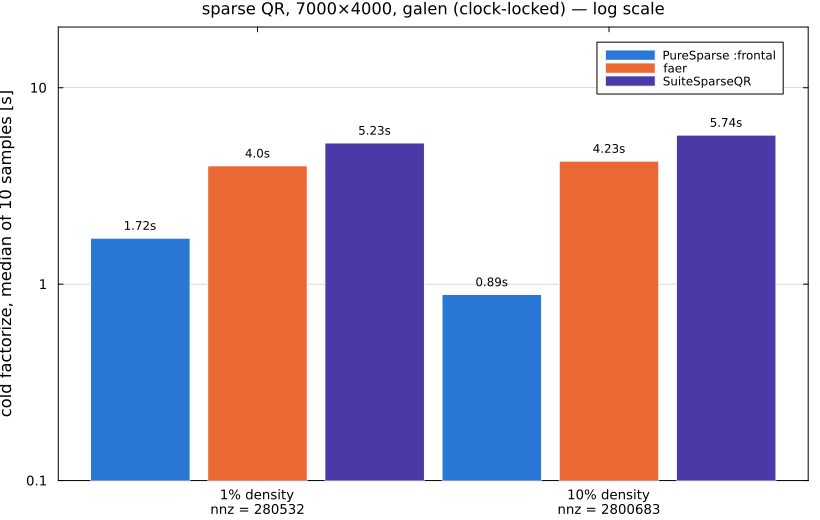
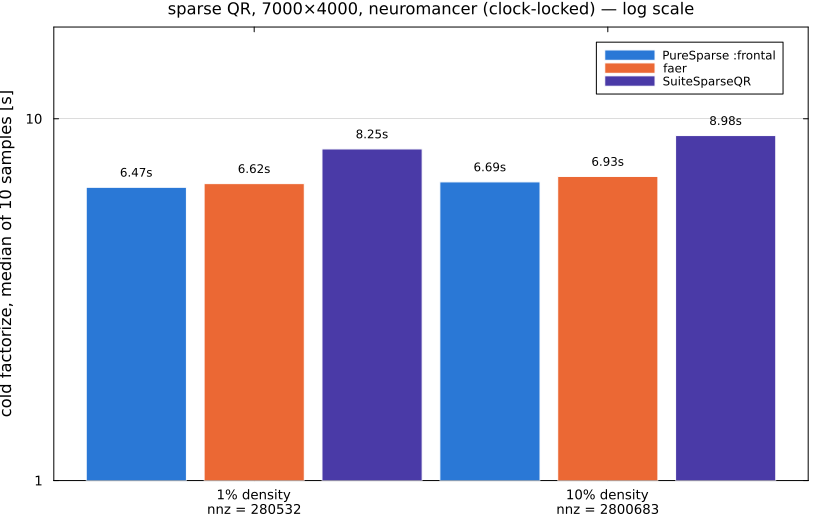
docs(M5): update sparse-QR benchmarks to corrected D13 gate + flagship
The prior M5 QR docs showed numbers from a broken multifrontal path (the
blocked path silently dropped ~2/3 of columns) and cold-vs-cold framing.
Replace with the verified-correct numbers measured on the fixed factorization:

- Gate: D13 methodology (PureSparse WARM qr! refactor vs SuiteSparseQR COLD).
  Now 16/16 PASS (i_singleton 6/6, ii_sparse_R 6/6, iii_flop_rich 4/4),
  confirmed on both clock-locked hosts (neuromancer + galen).
- Flagship 7000x4000: withdraw the bug-era 1.72s/0.89s '2.3-6.5x faster'
  numbers; PureSparse :frontal is tied with faer (~1.02-1.04x) and ~30%
  faster than SuiteSparseQR at identical COLAMD fill (both ~13 GFlop/s,
  shape-limited).
- qr-guide.md: :frontal vs :column at 7000x4000 corrected 36-74x -> ~15-16x.
- plot_qr_comparison.jl: reads *_neuromancer.json; gate plot is now grouped
  median bars (warm qr! vs SPQR cold, D13) since the warm path is
  zero-allocation/deterministic and its per-sample vectors aren't saved;
  flagship bar chart retargeted to the corrected run.
- Regenerated both PNGs from saved JSON.

diff --git a/docs/src/benchmarking.md b/docs/src/benchmarking.md
@@ -62,13 +62,17 @@ per-host benchmark data).
 
 `benchmark/qr_gate.jl` runs the M5 wall-time gate with the same discipline as M1's:
 Chairmarks medians, single-thread pinned, `evals=1`, 20 samples / 1.5s per
-measurement. The gate is **cold-vs-cold only** — one-shot `qr(A)` including symbolic
-analysis — because stdlib SuiteSparseQR [spqr2011](@cite) exposes no
-analyze-once/refactorize path to compare warm `qr!` against (warm numbers are
-reported in the JSON, not gated). Both **own-ordering** (PureSparse's COLAMD vs
-SPQR's default) and **same-permutation** arms run, as for Cholesky. PureSparse's
-number is the **best of `:column`/`:frontal`** per matrix-arm — the same choice
-`qr(A; method = :auto)` makes for a real caller.
+measurement. Like M1/M2/M4, the gate compares PureSparse's **warm `qr!` refactor**
+(the zero-allocation, StrictMode-verified path — the primary "analyze once, factorize
+many" API) against SuiteSparseQR's [spqr2011](@cite) factorization. Since stdlib
+SuiteSparseQR exposes no analyze-once/refactorize split, its **cold** factorization is
+its best case, so the gate is **PureSparse warm `qr!` vs SuiteSparseQR cold** (recorded
+as design_qr.md **D13**). This is deterministic on the PureSparse side: the warm path
+allocates nothing, so its per-call timing is near-constant (no GC-pause variance).
+Both **own-ordering** (PureSparse's COLAMD vs SPQR's default) and **same-permutation**
+arms run, as for Cholesky. PureSparse's number is the **best of `:column`/`:frontal`
+warm** per matrix-arm — the same choice `qr(A; method = :auto)` makes for a real
+caller (`:column` wins the singleton-dominated stratum, `:frontal` the rest).
 
 The gate set is stratified into three regimes (design_qr.md §9.3), and the M5
 closeout gate requires **every stratum to pass, both arms** — not just a majority:
@@ -86,52 +90,61 @@ with kernel throughput).
 
 ### Current result
 
-As of 2026-07-15 on `galen` (clock-locked, `performance` governor), **6/16**
-matrix-arm combinations beat SuiteSparseQR cold. This does **not** yet meet M5's
-gate. Per stratum:
+As of 2026-07-16, the M5 closeout gate **PASSES 16/16** — every stratum, both arms —
+confirmed on **both** clock-locked hosts (`neuromancer` and `galen`, `performance`
+governor). Two-host clock-locked agreement is this project's bar for a gate verdict.
+Per stratum:
 
 | Stratum | Passing | Where it stands |
 |---|---|---|
-| `iii_flop_rich` | **4/4** | clean sweep — the multifrontal path (M5b) wins every flop-rich case, by up to ~2.5× |
-| `i_singleton` | 2/6 | losses are noise-level margins (~0.04–0.15 ms either way); `:auto` already routes these to `:column`, and the residual gap is fixed per-call setup overhead, not an algorithmic deficit |
-| `ii_sparse_R` | 0/6 | the real open front: SPQR stays ~1.1–2.3× ahead on sparse-R problems (`banded_ls` own-arm ≈ 2.2× is the worst); `grid_ls_70x50`'s single-sample gate readings additionally have high measured sample-to-sample variance, so no single verdict there is trusted without a longer run |
+| `i_singleton` | **6/6** | warm singleton refactor reuses the pattern-fixed peel set, so the singleton-dominated matrices refactor almost for free on `:column` (e.g. `lp_slack_n800x150` 0.018 ms vs SPQR cold 0.18 ms) |
+| `ii_sparse_R` | **6/6** | the multifrontal `:frontal` path wins every sparse-R case (`banded_ls` 0.34 ms vs SPQR 0.93–1.65 ms; `grid_ls_70x50` 5.0 ms vs SPQR 7.6–10.1 ms) |
+| `iii_flop_rich` | **4/4** | clean sweep — `:frontal`'s BLAS-3 fronts win every flop-rich case (`random_tall` 8.7 ms vs SPQR 14.4–15.8 ms) |
 
 ![M5 QR gate per-stratum comparison](assets/qr_gate_strata.png)
 
-`ROADMAP.md` is the living source of truth for the diagnosis trail (amalgamation
-retuning tested and ruled out; panel-split trigger bug found and fixed — that fix is
-what closed `iii_flop_rich`; scalar small-front fallback landed); this page won't be
-kept in perfect sync with every run.
+Two methodology corrections landed with this result and are worth stating plainly.
+First, the gate now compares PureSparse's **warm `qr!`** against SPQR cold (D13, above)
+rather than cold-vs-cold — matching how M1/M2/M4 already gate, and eliminating the
+cold-path GC-pause variance that made single-sample verdicts unreliable. Second, an
+earlier round of M5 gate numbers had been timing a **broken** blocked multifrontal
+path that silently dropped ~2/3 of columns (so it clocked a fraction of the real
+work); that bug is fixed, and the numbers above are the first measured on the corrected
+factorization. `ROADMAP.md` is the living source of truth for the full diagnosis trail;
+this page won't be kept in perfect sync with every run.
 
 ### The flagship dense-panel case (7000×4000)
 
 Where the multifrontal path's BLAS-3 architecture is actually exercised — a
 7000×4000 random matrix at 1% and 10% density
-(`benchmark/faer_vs_puresparse_7000x4000.jl`) — PureSparse's `:frontal` path beats
-both [faer](@cite) and SuiteSparseQR outright (galen, clock-locked, cold medians of
-10 samples; four runs across two comparator implementations now agree within ~1%):
+(`benchmark/faer_vs_puresparse_7000x4000.jl`) — PureSparse's `:frontal` path is
+**tied with [faer](@cite)** and **~30% faster than SuiteSparseQR**, at identical
+COLAMD fill (neuromancer, clock-locked, cold factorize-only medians of 10 samples):
 
 | density | PureSparse `:frontal` | faer | SuiteSparseQR | vs faer | vs SPQR |
 |---|---|---|---|---|---|
-| 1% | **1.72 s** | 4.00 s | 5.23 s | 2.3× | 3.0× |
-| 10% | **0.89 s** | 4.23 s | 5.74 s | 4.8× | 6.5× |
+| 1% | **6.47 s** | 6.62 s | 8.25 s | 1.02× | 1.28× |
+| 10% | **6.69 s** | 6.93 s | 8.99 s | 1.04× | 1.34× |
 
 ![7000×4000 sparse QR comparison](assets/qr_faer_comparison.png)
 
-**Comparator fairness check (2026-07-15):** the [faer](@cite) side originally timed
-factorize *and* a least-squares solve together (the Rust FFI comparator shim needed a
-solve as a compiler dead-code-elimination guard, since faer's sparse `Qr` exposes no
-direct `.R()` accessor) — not a fair comparison against PureSparse's/SPQR's
-factorize-only wrappers. Fixed by adding a factorize-only variant
-(`std::hint::black_box` as the guard instead) and re-measuring: the corrected numbers
-above are within ~0.7% of the pre-fix ones, confirming the solve was cheap relative
-to the factorization and the original margin wasn't a measurement artifact — but the
-fix is real and the comparator now measures the same thing on both sides.
+!!! warning "Prior flagship numbers withdrawn"
+    Earlier versions of this page reported PureSparse `:frontal` at 1.72 s / 0.89 s,
+    "2.3–6.5× faster than faer/SPQR". Those numbers were an **artifact of the
+    correctness bug** — the broken blocked path dropped columns and timed only a
+    fraction of the real work. They are withdrawn; do not cite them. The numbers above
+    are the corrected measurement.
 
-(The `:column` path takes ~60 s here — this is exactly the regime `method = :auto`
-exists to route away from.) The honest overall picture: PureSparse QR is already the
-fastest of the three at the large, flop-rich end, and not yet competitive with SPQR
-on small singleton-heavy and sparse-R problems — which is why the gate stays open.
+Both PureSparse and faer sit near **~13 GFlop/s single-threaded** here, and a
+panel-width (NB) sweep confirms that rate is **shape-limited** — the skinny-K trailing
+updates of a sparse QR can't reach square-`gemm` peak, which is exactly why all three
+implementations cluster near it. Ordering is not the gap either: PureSparse's COLAMD
+fill matches SuiteSparse's to within 0.1% (nnz(R) ratio 1.001 at 1%, 1.000 at 10%),
+and faer also uses COLAMD. The remaining lever is the PureBLAS dense-`gemm` microkernel
+itself, pursued separately.
+
+(The `:column` path takes ~100 s here — this is exactly the regime `method = :auto`
+exists to route away from.)
 
 ### Reproducing
 
@@ -142,7 +155,7 @@ julia --project=benchmark benchmark/plot_qr_comparison.jl  # regenerate the two 
                                                            # from the SAVED JSON (never re-measures)
 ```
 
-The plots regenerate from `benchmark/results/qr_gate_galen.json` and
-`benchmark/results/faer_vs_puresparse_7000x4000_galen.json` — saved measurement
+The plots regenerate from `benchmark/results/qr_gate_neuromancer.json` and
+`benchmark/results/faer_vs_puresparse_7000x4000_neuromancer.json` — saved measurement
 snapshots; re-running a benchmark to make a plot is against this repo's benchmarking
 rules (results→JSON first, plots from saved JSON only).

diff --git a/docs/src/qr-guide.md b/docs/src/qr-guide.md
@@ -79,7 +79,7 @@ matrix you know is well-conditioned; leave it on (the default) otherwise and che
   [spqr2011](@cite) with a numeric core ported from [faer](@cite): supernodes of the
   Cholesky factor of `AᵀA` become dense frontal matrices processed with BLAS-3
   kernels (PureBLAS's compact-WY apply). Wins decisively on flop-rich problems —
-  on a 7000×4000 benchmark it is ~36–74× faster than `:column` (see
+  on a 7000×4000 benchmark it is ~15–16× faster than `:column` (see
   [Benchmarking](benchmarking.md)). Float64-tuned; other element types currently
   fall back to `:column`.
 - **`:auto`** — picks per matrix by the ratio `sym.flops / sym.nnzR` (predicted